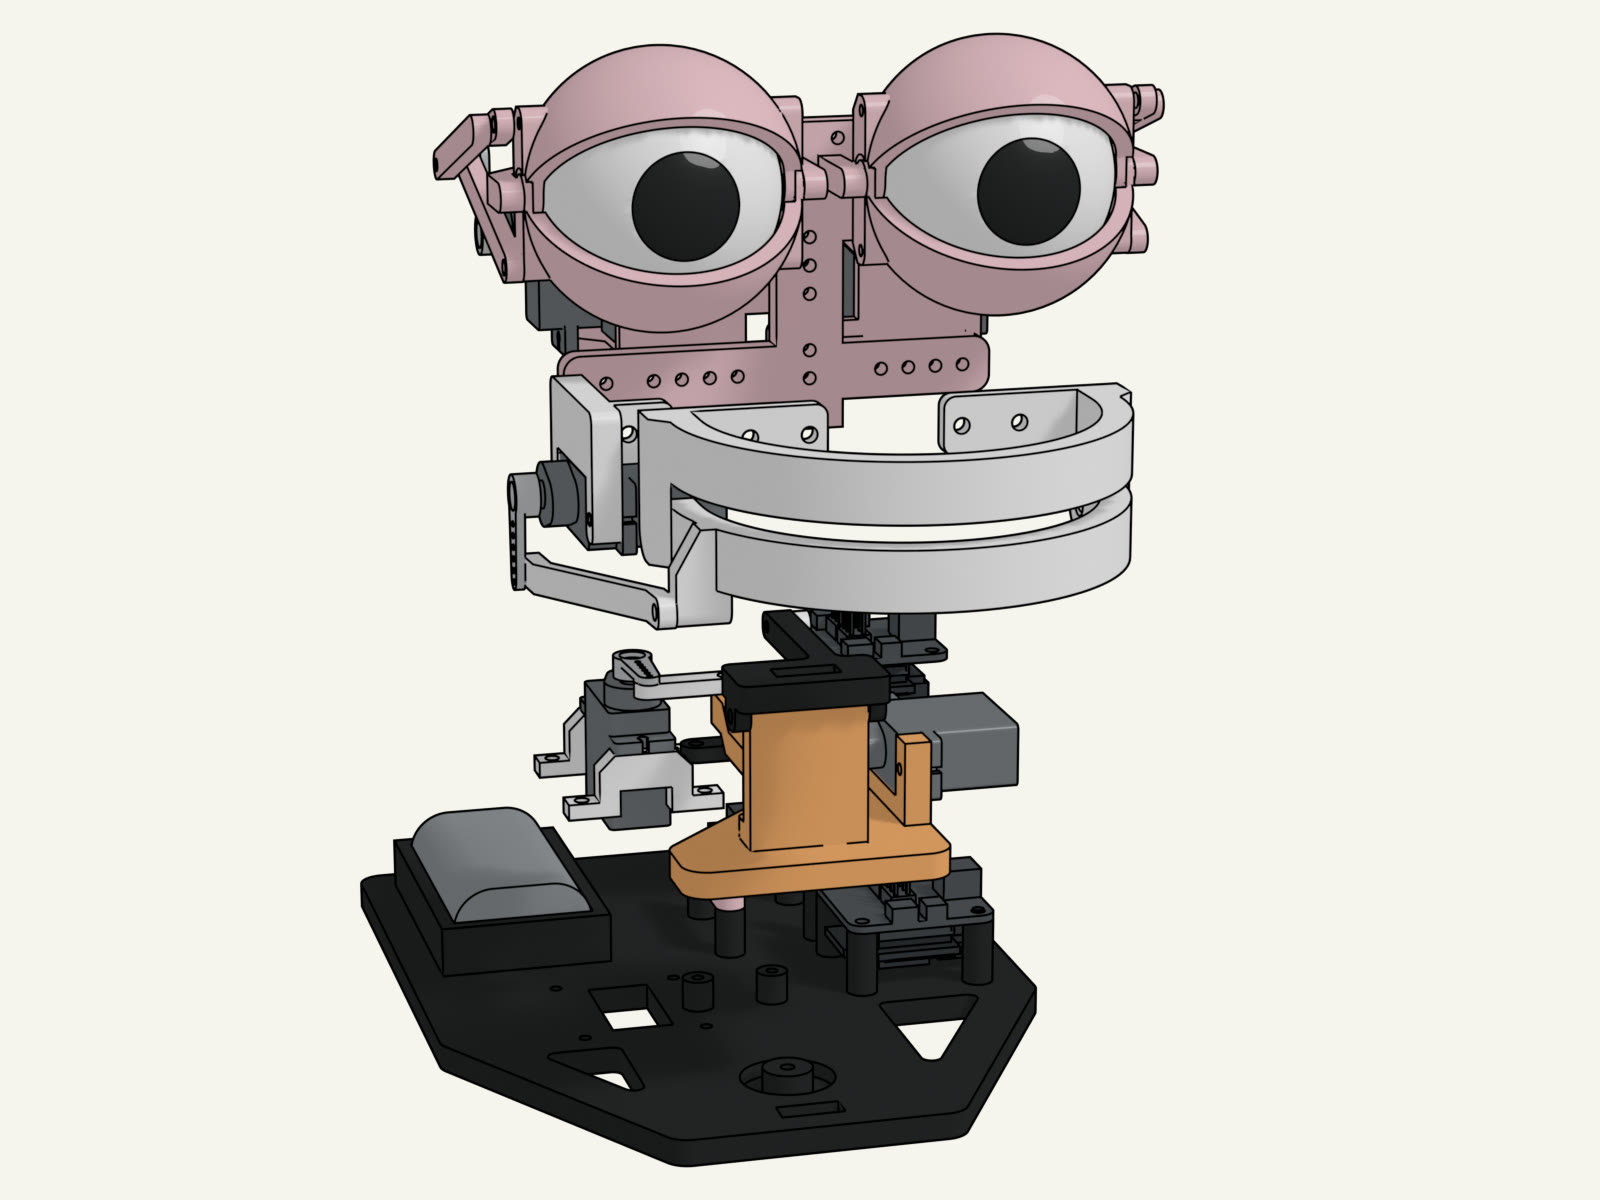
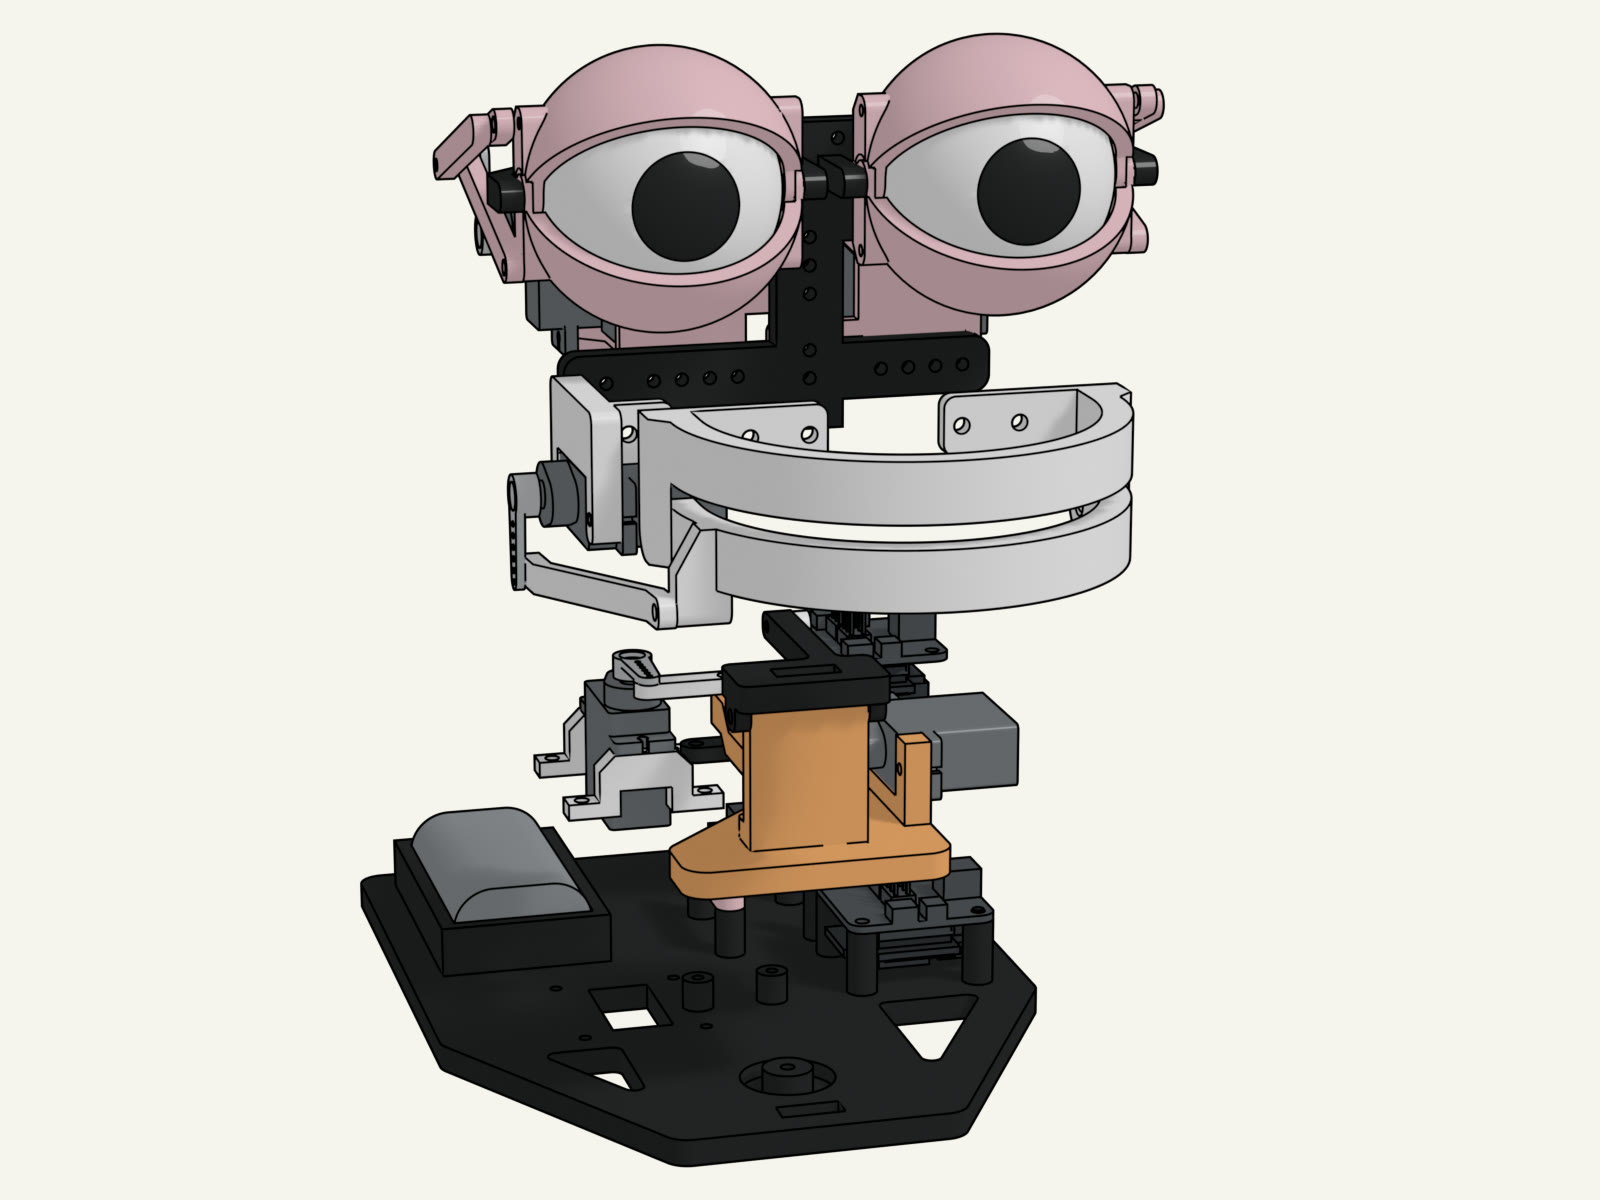
Model: the rail eye bracket black; Stage 1 pictures with the desk eye bracket (#178) (#186)
Closes #178.

## Summary

```diff
 geometry.PRINTED
   Milky Pink:     L/R servo bracket, desk eye bracket, lids, bars, ...
-                 eye bracket
   Absolute Black: pupil, base plate, tilt arm, ...
+                 eye bracket   # the rail one: a black print in printed-parts.jpg
```

- Stage 1 already draws the desk eye bracket on main: #131's
`pictures.assembled` builds a Stage under its document name, which
reaches the `geometry.DESK` swap. This PR adds a guard test for it.
- README media re-rendered (style B, `make render` + `make hero`): the
Stage strip, the stage 3 exploded view and the hero now show the rail
eye bracket black. The gesture GIFs are on Stage 1, which this change
does not touch, so they are not re-committed.
- The `geometry.py` edit is in the report stamp: `make sim` re-run, and
only the stamps changed (0 violations, same contacts).
- `docs/research/2026-11-01-eyes-on-plate.md`: the "Left open" colour
item is settled.

## Evidence

- **Before:**
`test_the_rail_eye_bracket_is_black_and_the_desk_one_pink_as_printed`
fails (`scene.colour("eye bracket.stl")` returned Milky Pink `#F7CED7`).
**After:** it passes; `scene.colour("desk eye bracket.stl")` stays
`#F7CED7`.
- `test_the_stage1_picture_draws_the_desk_eye_bracket`: Stage 1's
picture places the `desk eye bracket` mesh.
- Renders (viewed): Stage 1 front and side show the pink desk bracket,
with no rail and its feet on the plate. The strip's stage 2 and stage 3
[…]

Changed region(s): [[0.3438, 0.0925, 0.625, 0.37], [0.2812, 0.1233, 0.3438, 0.185], [0.6875, 0.1233, 0.7188, 0.1542]]

diff --git a/model/render/test_scene.py b/model/render/test_scene.py
@@ -59,3 +59,9 @@ def test_on_stage3_the_eyes_and_jaw_move_on_the_bracket_as_alone_while_the_neck_
     assert np.allclose(on(mats, "pan turntable:1", "eye bracket:1"), on(tilted, "pan turntable:1", "eye bracket:1"))
     assert np.allclose(mats["pan turntable:1"], panned["pan turntable:1"])
     assert np.allclose(mats["base plate:1"], neutral["base plate:1"])
+
+
+def test_the_rail_eye_bracket_is_black_and_the_desk_one_pink_as_printed():
+    # Cansin's prints (docs/build-photos/printed-parts.jpg): the rail bracket black, the desk bracket pink
+    assert scene.colour("eye bracket.stl") == "#000000"  # Absolute Black
+    assert scene.colour("desk eye bracket.stl") == "#F7CED7"  # Milky Pink

diff --git a/model/render/test_pictures.py b/model/render/test_pictures.py
@@ -5,6 +5,7 @@ import numpy as np
 import pytest
 
 from model import geometry as g
+from model.engine import stages
 from model.render import pictures, scene
 
 
@@ -15,3 +16,8 @@ def test_on_the_rendered_stage3_the_neck_carries_the_head(servo, deg):
     for n in ("L pupil:1", "eye bracket:1", "bottom jaw:1"):
         assert not np.allclose(mats[n], stage.parts[n].matrix), n
     assert np.allclose(mats["base plate:1"], stage.parts["base plate:1"].matrix)
+
+
+def test_the_stage1_picture_draws_the_desk_eye_bracket():
+    stage = pictures.assembled("stage1", g.STAGES["noggin-stage1"])
+    assert stages.stem(stage.parts["eye bracket:1"].file) == "desk eye bracket"

diff --git a/model/geometry.py b/model/geometry.py
@@ -393,7 +393,6 @@ PRINTED = {
         "Milky Pink": [
             "L servo bracket",
             "R servo bracket",
-            "eye bracket",
             "desk eye bracket",
             "upper lid",
             "lower lid",
@@ -415,6 +414,7 @@ PRINTED = {
             "jaw servo mount",
         ],
         "Absolute Black": [
+            "eye bracket",  # the rail one: a black print in printed-parts.jpg
             "pupil",
             "base plate",
             "tilt arm",

diff --git a/docs/research/2026-11-01-eyes-on-plate.md b/docs/research/2026-11-01-eyes-on-plate.md
@@ -67,5 +67,5 @@ plate against the eye bracket and against both servo brackets.
 
 ## Left open
 
-- The v2 bracket's colour. geometry.PRINTED gives "eye bracket" as Milky Pink, but the v2 print in printed-parts.jpg is
-  black. The pink one in the build is the desk bracket. This is not changed here.
+- The v2 bracket's colour: settled in #178. geometry.PRINTED gives "eye bracket" Absolute Black, as its print in
+  printed-parts.jpg; the pink one in the build is the desk bracket.
